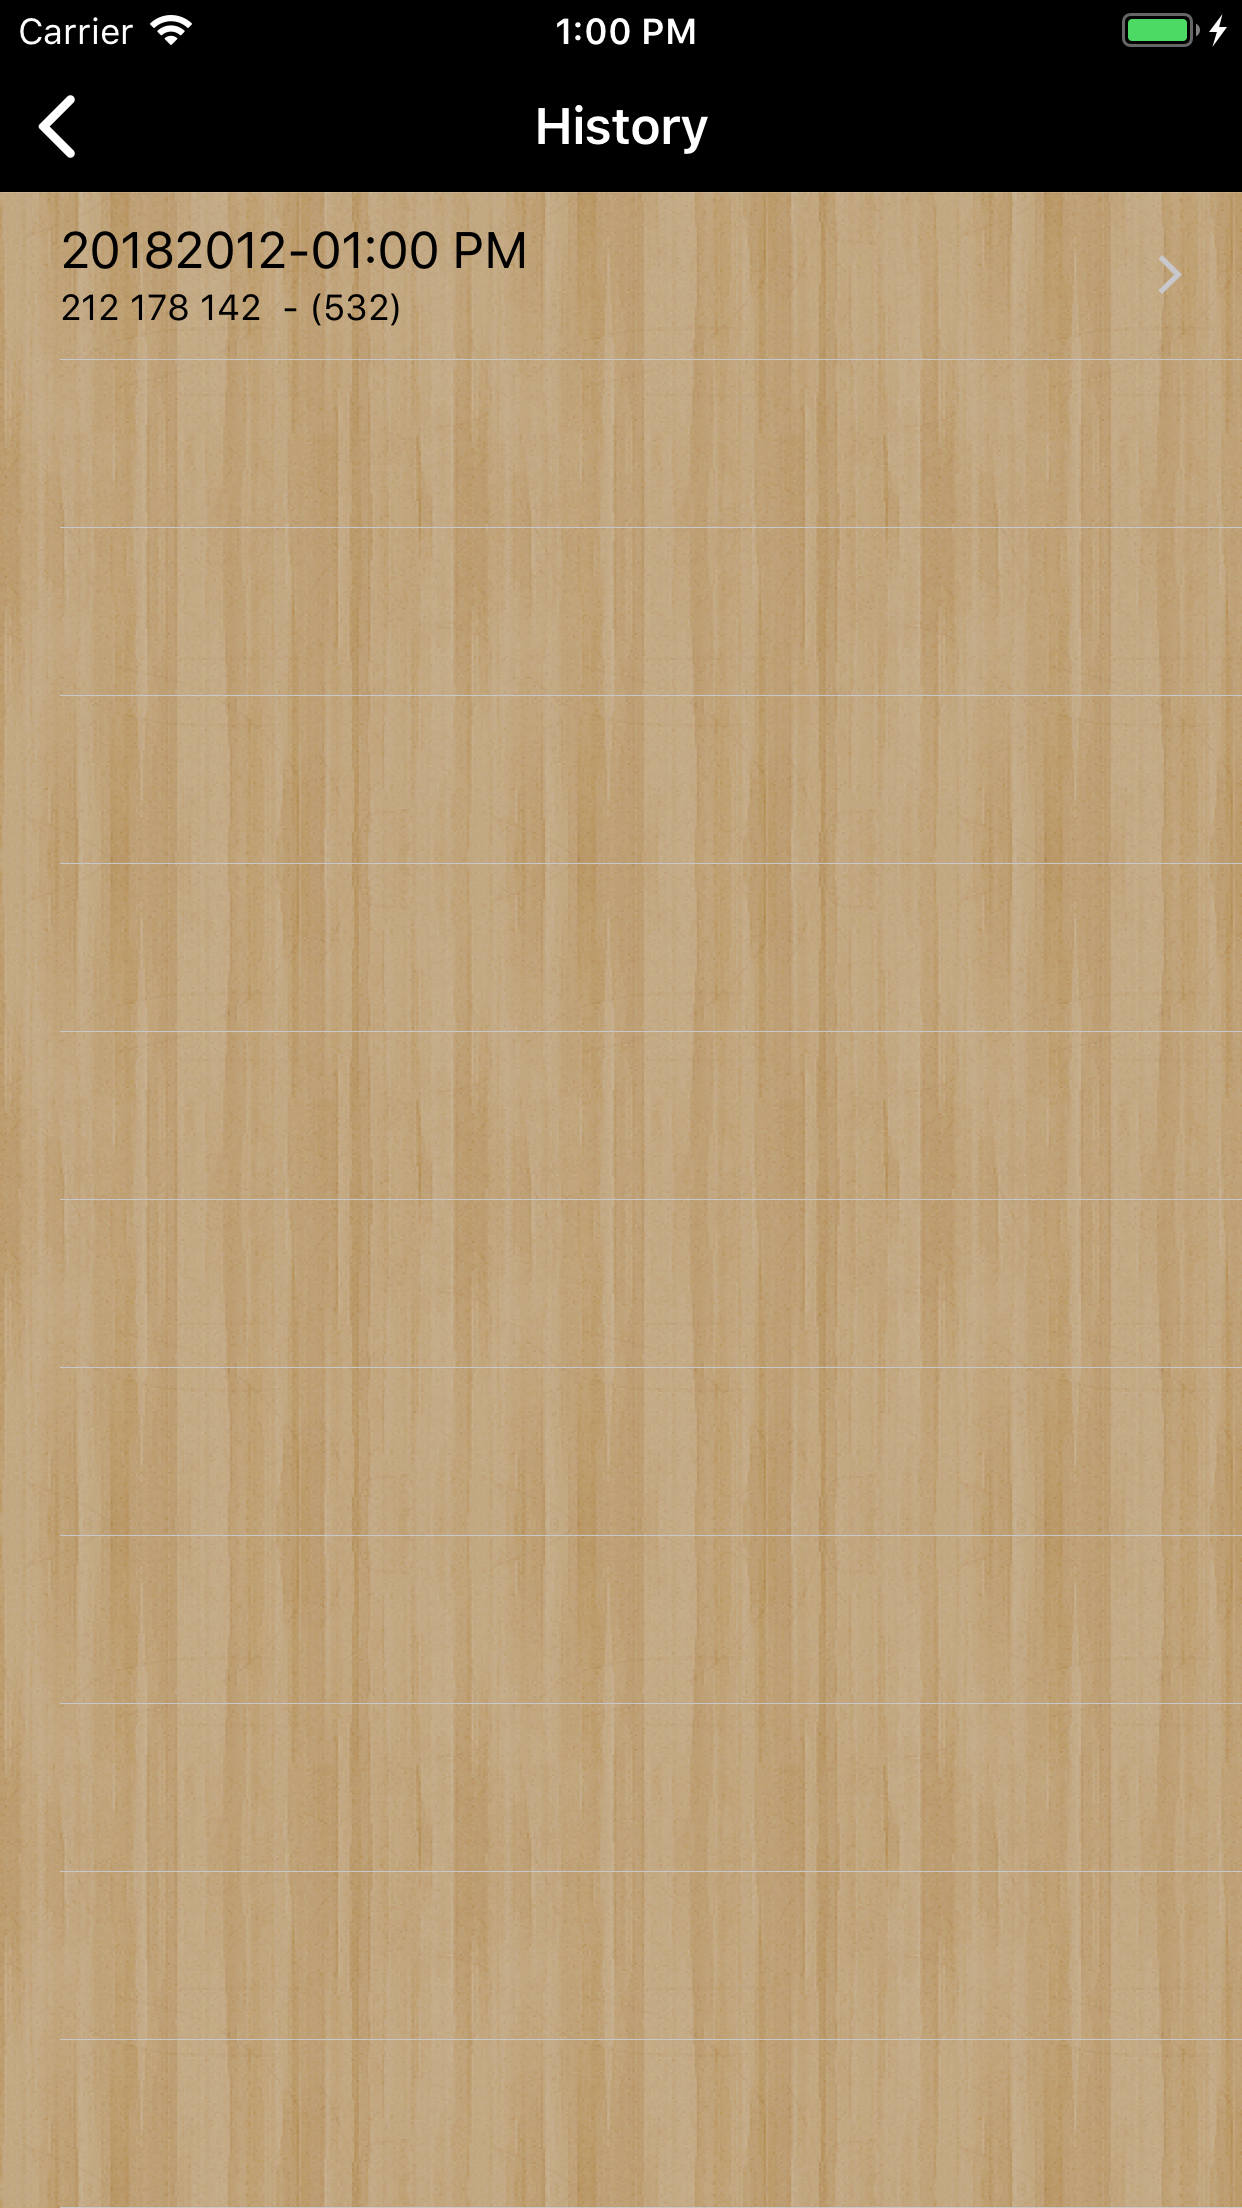
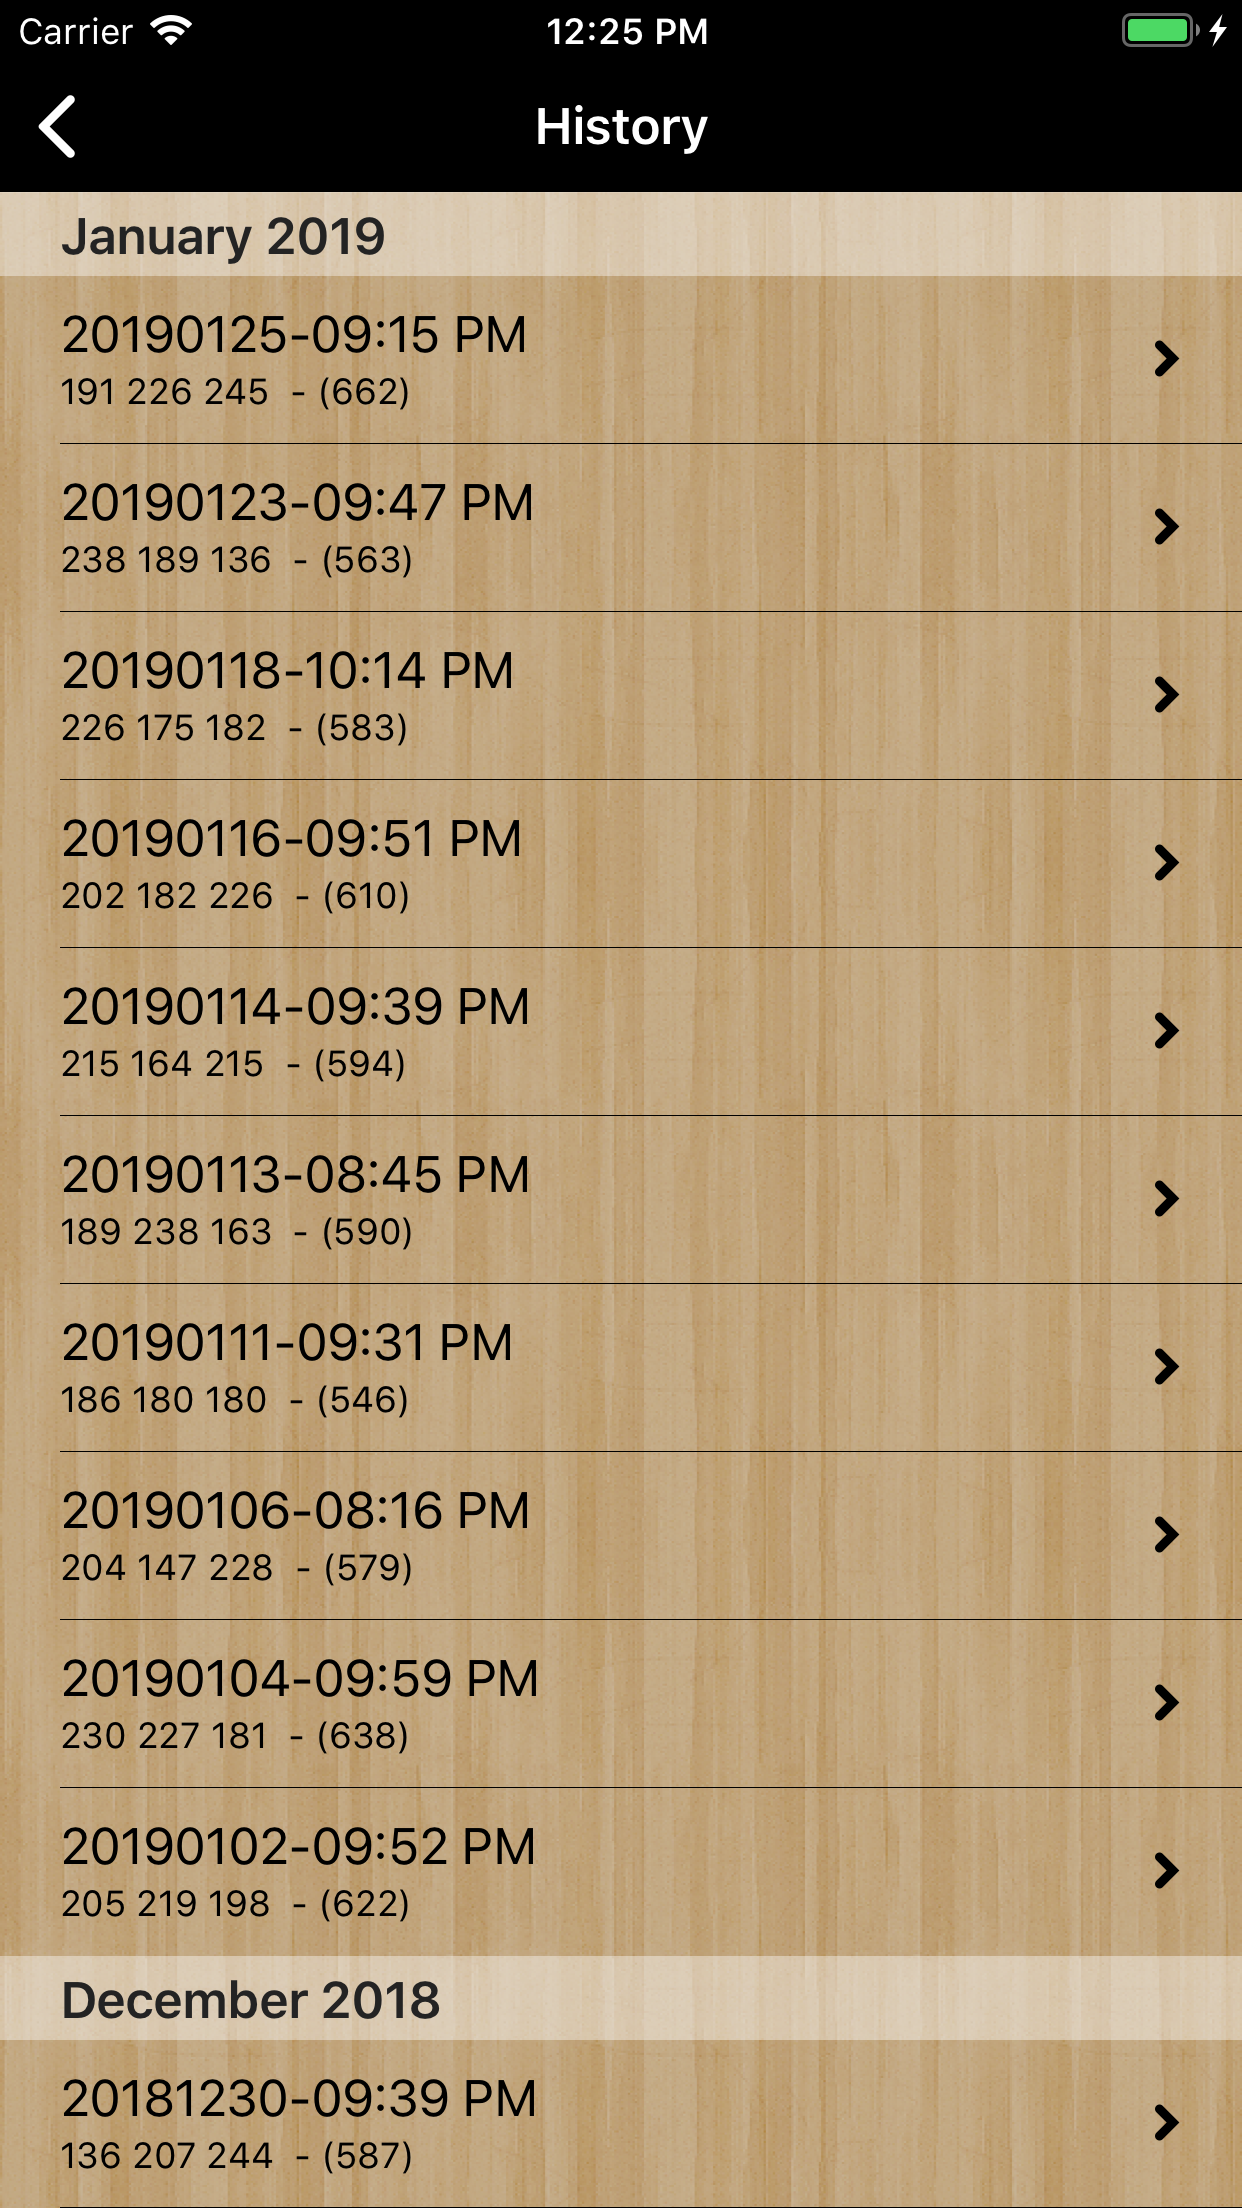
Added grouping by month/year in the history summary view

diff --git a/BowlTracker/Classes/ViewControllers/ShowSeriesHistoryTableViewController.swift b/BowlTracker/Classes/ViewControllers/ShowSeriesHistoryTableViewController.swift
@@ -10,12 +10,16 @@ import UIKit
 
 class ShowSeriesHistoryTableViewController: UITableViewController {
     var seriesHistory: NSDictionary?
+    var seriesGroupHistory = NSMutableDictionary()
+    var seriesGroupTimeStampHistory = NSMutableDictionary()
     var textTitle: String?
+    let months = ["January", "February", "March", "April", "May", "June", "July", "August", "September", "October", "November", "December"]
 
     override func viewDidLoad() {
         super.viewDidLoad()
 
         tableView.backgroundView = UIImageView(image: UIImage(named: "lane")?.stretchableImage(withLeftCapWidth: 0, topCapHeight: 5))
+        groupSeriesHistory()
     }
     
     override func viewWillAppear(_ animated: Bool) {
@@ -32,24 +36,56 @@ class ShowSeriesHistoryTableViewController: UITableViewController {
     // MARK: - Table view data source
 
     override func numberOfSections(in tableView: UITableView) -> Int {
-        return 1
+        return seriesGroupHistory.count
     }
 
     override func tableView(_ tableView: UITableView, numberOfRowsInSection section: Int) -> Int {
-        return seriesHistory!.count
+        let keys: [String] = ((seriesGroupHistory.allKeys as! [String]).sorted()).reversed()
+        let key = keys[section]
+        let seriesArray: NSArray = seriesGroupHistory.object(forKey: key) as! NSArray
+
+        return seriesArray.count
+    }
+    
+    override func tableView(_ tableView: UITableView, willDisplayHeaderView view: UIView, forSection section: Int) {
+        (view as! UITableViewHeaderFooterView).backgroundView?.backgroundColor = UIColor.white.withAlphaComponent(0.4)
+    }
+
+    override func tableView(_ tableView: UITableView, titleForHeaderInSection section: Int) -> String? {
+        let calendar = Calendar.current
+        let dateFormatter = DateFormatter()
+        dateFormatter.dateFormat = "yyyyMMdd-hh:mm a"
+
+        let keys: [String] = ((seriesGroupHistory.allKeys as! [String]).sorted()).reversed()
+        let groupKey = keys[section]
+        
+        let seriesGroup: SeriesGroup = seriesGroupTimeStampHistory.object(forKey: groupKey) as! SeriesGroup
+
+        let stringTimestamp: String = seriesGroup.timeStamps![0] as! String
+        
+        let date = dateFormatter.date(from: stringTimestamp)!
+        let components = calendar.dateComponents([.year, .month, .day, .hour], from: date)
+        let month = months[components.month!-1]
+        
+        return "\(String(describing: month)) \(String(describing: components.year!))"
     }
     
     override func tableView(_ tableView: UITableView, cellForRowAt indexPath: IndexPath) -> UITableViewCell {
-        let keys: [String] = ((seriesHistory!.allKeys as! [String]).sorted()).reversed()
-        let key = keys[indexPath.row]
-        let subtitle = seriesScore(for: key, series: seriesHistory!)
+        let groupKeys: [String] = ((seriesGroupHistory.allKeys as! [String]).sorted()).reversed()
+        let groupKey = groupKeys[indexPath.section]
+        let seriesArray: NSArray = seriesGroupHistory.object(forKey: groupKey) as! NSArray
+        let series: [[Frame]] = seriesArray.object(at: indexPath.row) as! [[Frame]]
+
+        let subtitle = seriesScore(for: series)
+        let seriesGroup: SeriesGroup = seriesGroupTimeStampHistory.object(forKey: groupKey) as! SeriesGroup
+        let timestamp: String = seriesGroup.timeStamps?.object(at: indexPath.row) as! String
 
         let cell = tableView.dequeueReusableCell(withIdentifier: "Cell", for: indexPath)
         let accessory = DisclosureIndicator.create(color: UIColor.black, highlightedColor: UIColor.black)
         cell.accessoryView = accessory
 
         // Configure the cell...
-        cell.textLabel?.text = key
+        cell.textLabel?.text = timestamp
         cell.detailTextLabel?.text = subtitle
 
         return cell
@@ -61,9 +97,10 @@ class ShowSeriesHistoryTableViewController: UITableViewController {
     override func prepare(for segue: UIStoryboardSegue, sender: Any?) {
         if segue.identifier == "ShowSeriesHistorySummary" {
             let indexPath = tableView.indexPathForSelectedRow
-            let keys: [String] = ((seriesHistory!.allKeys as! [String]).sorted()).reversed()
-            let key = keys[indexPath!.row]
-            let series: [[Frame]] = seriesHistory!.object(forKey: key) as! [[Frame]]
+            let groupKeys: [String] = ((seriesGroupHistory.allKeys as! [String]).sorted()).reversed()
+            let groupKey = groupKeys[indexPath!.section]
+            let seriesArray: NSArray = seriesGroupHistory.object(forKey: groupKey) as! NSArray
+            let series: [[Frame]] = seriesArray.object(at: indexPath!.row) as! [[Frame]]
             let cell = tableView.cellForRow(at: indexPath!)
             let controller: SeriesSummaryViewController = segue.destination as! SeriesSummaryViewController
             controller.textTitle = cell!.detailTextLabel?.text
@@ -89,5 +126,69 @@ class ShowSeriesHistoryTableViewController: UITableViewController {
         return "\(frameScores) - (\(seriesScore))"
     }
     
+    func seriesScore(for series: [[Frame]]) -> String? {
+        var seriesScore = 0
+        var frameScores = ""
+        
+        for index in 0...2 {
+            let game = series[index]
+            let frame: Frame = game[0]
+            frameScores += "\(frame.finalScore) "
+            seriesScore += frame.finalScore
+        }
+        
+        return "\(frameScores) - (\(seriesScore))"
+    }
+    
+    // MARK: - Grouping
+    
+    func groupSeriesHistory() {
+        let calendar = Calendar.current
+        let dateFormatter = DateFormatter()
+        dateFormatter.dateFormat = "yyyyMMdd-hh:mm a"
+        
+        seriesGroupHistory.removeAllObjects()
+
+        let keys: [String] = ((seriesHistory!.allKeys as! [String]).sorted()).reversed()
+        for key in keys {
+            let date = dateFormatter.date(from: key)!
+            let components = calendar.dateComponents([.year, .month, .day, .hour], from: date)
+            let month = String(format: "%02d", arguments: [components.month!])
+            let groupKey = "\(String(describing: components.year!))\(String(describing: month))"
+            if let groups: NSMutableArray = seriesGroupHistory.object(forKey: groupKey) as? NSMutableArray {
+                let seriesGroup: SeriesGroup = seriesGroupTimeStampHistory.object(forKey: groupKey) as! SeriesGroup
+                let series: [[Frame]] = seriesHistory!.object(forKey: key) as! [[Frame]]
+                let timestamps: NSMutableArray = seriesGroup.timeStamps!
+                groups.add(series)
+                timestamps.add(key)
+
+                seriesGroup.groups = groups
+                seriesGroup.timeStamps = timestamps
+
+                seriesGroupHistory.setObject(groups, forKey: groupKey as NSCopying)
+                seriesGroupTimeStampHistory.setObject(seriesGroup, forKey: groupKey as NSCopying)
+            } else {
+                let groups = NSMutableArray()
+                let timestamps = NSMutableArray()
+                let series: [[Frame]] = seriesHistory!.object(forKey: key) as! [[Frame]]
+                groups.add(series)
+                timestamps.add(key)
+
+                let seriesGroup = SeriesGroup()
+                seriesGroup.groups = groups
+                seriesGroup.timeStamps = timestamps
+                
+                seriesGroupHistory.setObject(groups, forKey: groupKey as NSCopying)
+                seriesGroupTimeStampHistory.setObject(seriesGroup, forKey: groupKey as NSCopying)
+            }
+       }
+    }
+    
+    func dateToGroupKey(now: Date) -> String {
+        let dateFormatter = DateFormatter()
+        dateFormatter.dateFormat = "yyyyMMdd-hh:mm a"
+        
+        return dateFormatter.string(from: now)
+    }
 
 }

diff --git a/BowlTracker/Classes/Models/SeriesGroup.swift b/BowlTracker/Classes/Models/SeriesGroup.swift
@@ -1,0 +1,14 @@
+//
+//  SeriesGroup.swift
+//  BowlTracker
+//
+//  Created by Gene Backlin on 1/27/19.
+//  Copyright © 2019 Gene Backlin. All rights reserved.
+//
+
+import UIKit
+
+class SeriesGroup: NSObject {
+    var groups: NSMutableArray?
+    var timeStamps: NSMutableArray?
+}
